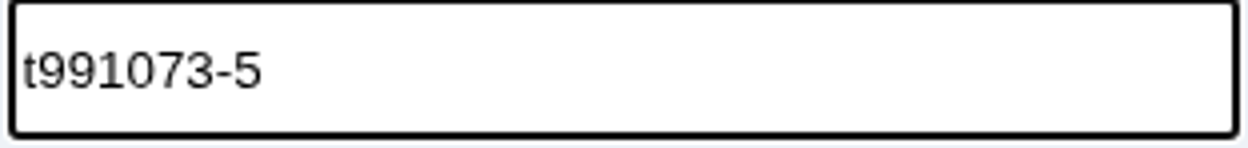
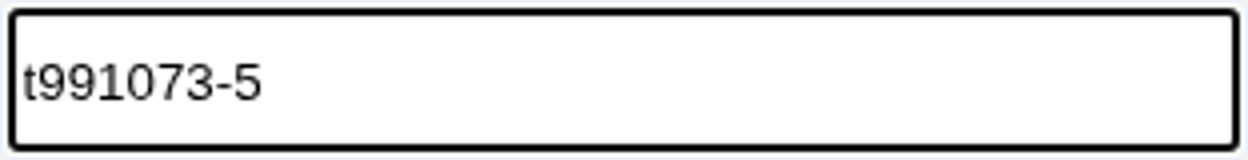
Assert crop bounds contain detected input field

Changed region(s): [[0.0, 0.8649, 1.0, 0.973], [0.0, 0.0, 1.0, 0.1081], [0.0, 0.3243, 0.2188, 0.6486]]

diff --git a/research/integration/compiled_comparison_57_4d74_20261004/a05/independent-readback/crop_preview.py b/research/integration/compiled_comparison_57_4d74_20261004/a05/independent-readback/crop_preview.py
@@ -16,7 +16,7 @@ REF = "58bcbb4c45501880db8782158ddd3add3b765984"
 BASE = "research/integration/compiled_comparison_57_4d74_20261004/a05/formal-output"
 OUT = Path(__file__).with_name("crop-previews")
 FROZEN_BOX = (499, 544, 799, 573)
-CANDIDATE_BOX = (493, 542, 805, 579)
+CANDIDATE_BOX = (493, 539, 805, 579)
 CASES = (
[2 lines of base64/hex data omitted]
@@ -37,6 +37,27 @@ for block, task, sequence, expected_source_sha in CASES:
     assert source_sha == expected_source_sha, (source_path, source_sha)
     with Image.open(io.BytesIO(source)) as img:
         frame = img.convert("RGB")
+    gray = frame.convert("L")
+    input_edge_rows = [
+        y for y in range(538, 580)
+        if sum(gray.getpixel((x, y)) < 90 for x in range(480, 820)) >= 280
+    ]
+    input_edge_columns = [
+        x for x in range(480, 820)
+        if sum(gray.getpixel((x, y)) < 90 for y in range(538, 580)) >= 25
+    ]
+    assert input_edge_rows == [541, 542, 575, 576], (source_path, input_edge_rows)
+    assert input_edge_columns == [495, 496, 801, 802], (source_path, input_edge_columns)
+    detected_field_box = (min(input_edge_columns), min(input_edge_rows),
+                          max(input_edge_columns) + 1, max(input_edge_rows) + 1)
+    assert not (FROZEN_BOX[0] <= detected_field_box[0]
+                and FROZEN_BOX[1] <= detected_field_box[1]
+                and FROZEN_BOX[2] >= detected_field_box[2]
+                and FROZEN_BOX[3] >= detected_field_box[3])
+    assert (CANDIDATE_BOX[0] <= detected_field_box[0]
+            and CANDIDATE_BOX[1] <= detected_field_box[1]
+            and CANDIDATE_BOX[2] >= detected_field_box[2]
+            and CANDIDATE_BOX[3] >= detected_field_box[3])
     if FROZEN_BOX[2] > frame.width or FROZEN_BOX[3] > frame.height:
         raise ValueError(f"frozen crop outside {source_path}")
     if CANDIDATE_BOX[2] > frame.width or CANDIDATE_BOX[3] > frame.height:
@@ -57,6 +78,13 @@ for block, task, sequence, expected_source_sha in CASES:
             "source_path": source_path,
             "source_sha256": source_sha,
             "box_xyxy": list(box),
+            "detected_field_box_xyxy": list(detected_field_box),
+            "crop_contains_detected_field": (
+                box[0] <= detected_field_box[0]
+                and box[1] <= detected_field_box[1]
+                and box[2] >= detected_field_box[2]
+                and box[3] >= detected_field_box[3]
+            ),
             "scale": 4,
             "output": f"crop-previews/{name}",
             "output_size": list(crop.size),
@@ -67,6 +95,7 @@ manifest = {
     "purpose": "Reproduce the exact frozen and padded crop previews used for visual diagnosis of the three C-arm OCR false negatives.",
     "source_revision": REF,
     "ocr_executed": False,
+    "field_edge_detection": "dark horizontal/vertical border pixels in the fixed ROI; thresholded for these pinned fixture frames",
     "frozen_box_xyxy": list(FROZEN_BOX),
     "candidate_box_xyxy": list(CANDIDATE_BOX),
     "entries": entries,

diff --git a/research/integration/compiled_comparison_57_4d74_20261004/a05/independent-readback/c_failure_diagnostics.py b/research/integration/compiled_comparison_57_4d74_20261004/a05/independent-readback/c_failure_diagnostics.py
@@ -73,8 +73,11 @@ visual_review = [
 ]
 crop_boundary_probe = {
     "frozen_layout_b_box_xyxy": [499, 544, 799, 573],
-    "candidate_padded_box_xyxy": [493, 542, 805, 579],
-    "candidate_box_status": "visual crop preview only; OCR was not rerun",
+    "detected_input_field_box_xyxy": [495, 541, 803, 577],
+    "candidate_padded_box_xyxy": [493, 539, 805, 579],
+    "candidate_box_status": "machine-checked crop geometry and visual preview only; OCR was not rerun",
+    "frozen_crop_contains_detected_field": False,
+    "candidate_crop_contains_detected_field": True,
     "previews": [
         {
             "block": item["block"],

diff --git a/research/integration/compiled_comparison_57_4d74_20261004/a05/independent-readback/README.md b/research/integration/compiled_comparison_57_4d74_20261004/a05/independent-readback/README.md
@@ -16,7 +16,7 @@ The committed JSON files are the output of those commands. Re-running each comma
 
 `target_linkage.py` independently checks A's admitted point moves against the archived grounding points and links each executed B/C field or submit move to a prior VALID, eligible alias-target check matching the grounded point and live window. It finds 24/24 A grounding matches and 45/45 executed B/C moves linked (B 24; C 21). This trace linkage does not establish all collateral GUI state or the full physical input-authority chain.
 
-`c_failure_diagnostics.py` classifies the three unsuccessful C rows (block 1 tasks 5 and 6; block 2 task 6). Each is a `SAFE_YIELD/effect_failed` after a completed `enter` with verified release; the filled-state OCR output omits exactly the leading `t` from the expected token, so no submit program runs. Visual review of all three exact retained frames confirms that each full expected token is visible in the field. The frozen layout-B crop `(499,544,799,573)` visibly cuts the leading `t` at its left boundary. A local padded preview `(493,542,805,579)` includes the complete token and input-field border. The exact crop geometry, OCR strings and image hashes are pinned in `C_FAILURE_DIAGNOSTICS.json`; Tesseract was unavailable, so recognition on the padded candidate remains unverified. The safe-yields remain failures in the formal 9/12 result. No repair or rerun is claimed.
+`c_failure_diagnostics.py` classifies the three unsuccessful C rows (block 1 tasks 5 and 6; block 2 task 6). Each is a `SAFE_YIELD/effect_failed` after a completed `enter` with verified release; the filled-state OCR output omits exactly the leading `t` from the expected token, so no submit program runs. Visual review of all three exact retained frames confirms that each full expected token is visible in the field. `crop_preview.py` detects the input border as `(495,541,803,577)` in all three frames using dark horizontal/vertical pixel runs. The frozen layout-B crop `(499,544,799,573)` excludes all four edges and visibly cuts the leading `t`; candidate bounds `(493,539,805,579)` contain the detected field border and the complete token. The crop generator asserts these geometric facts and records source/output hashes. Tesseract was unavailable, so recognition on the padded candidate remains unverified. The safe-yields remain failures in the formal 9/12 result. No repair or rerun is claimed.
 
 `crop_preview.py` reads the three PNGs from the pinned source revision and reproduces frozen and candidate crops at 4× scale. It commits those 6 visual references plus a manifest containing source and output SHA-256 values. This validates crop geometry only. Run it with the same Pillow-enabled Python environment used by the A05 adapter, then rerun `c_failure_diagnostics.py` to refresh its linked manifest hash. The historical formal allocation is never invoked.
 
